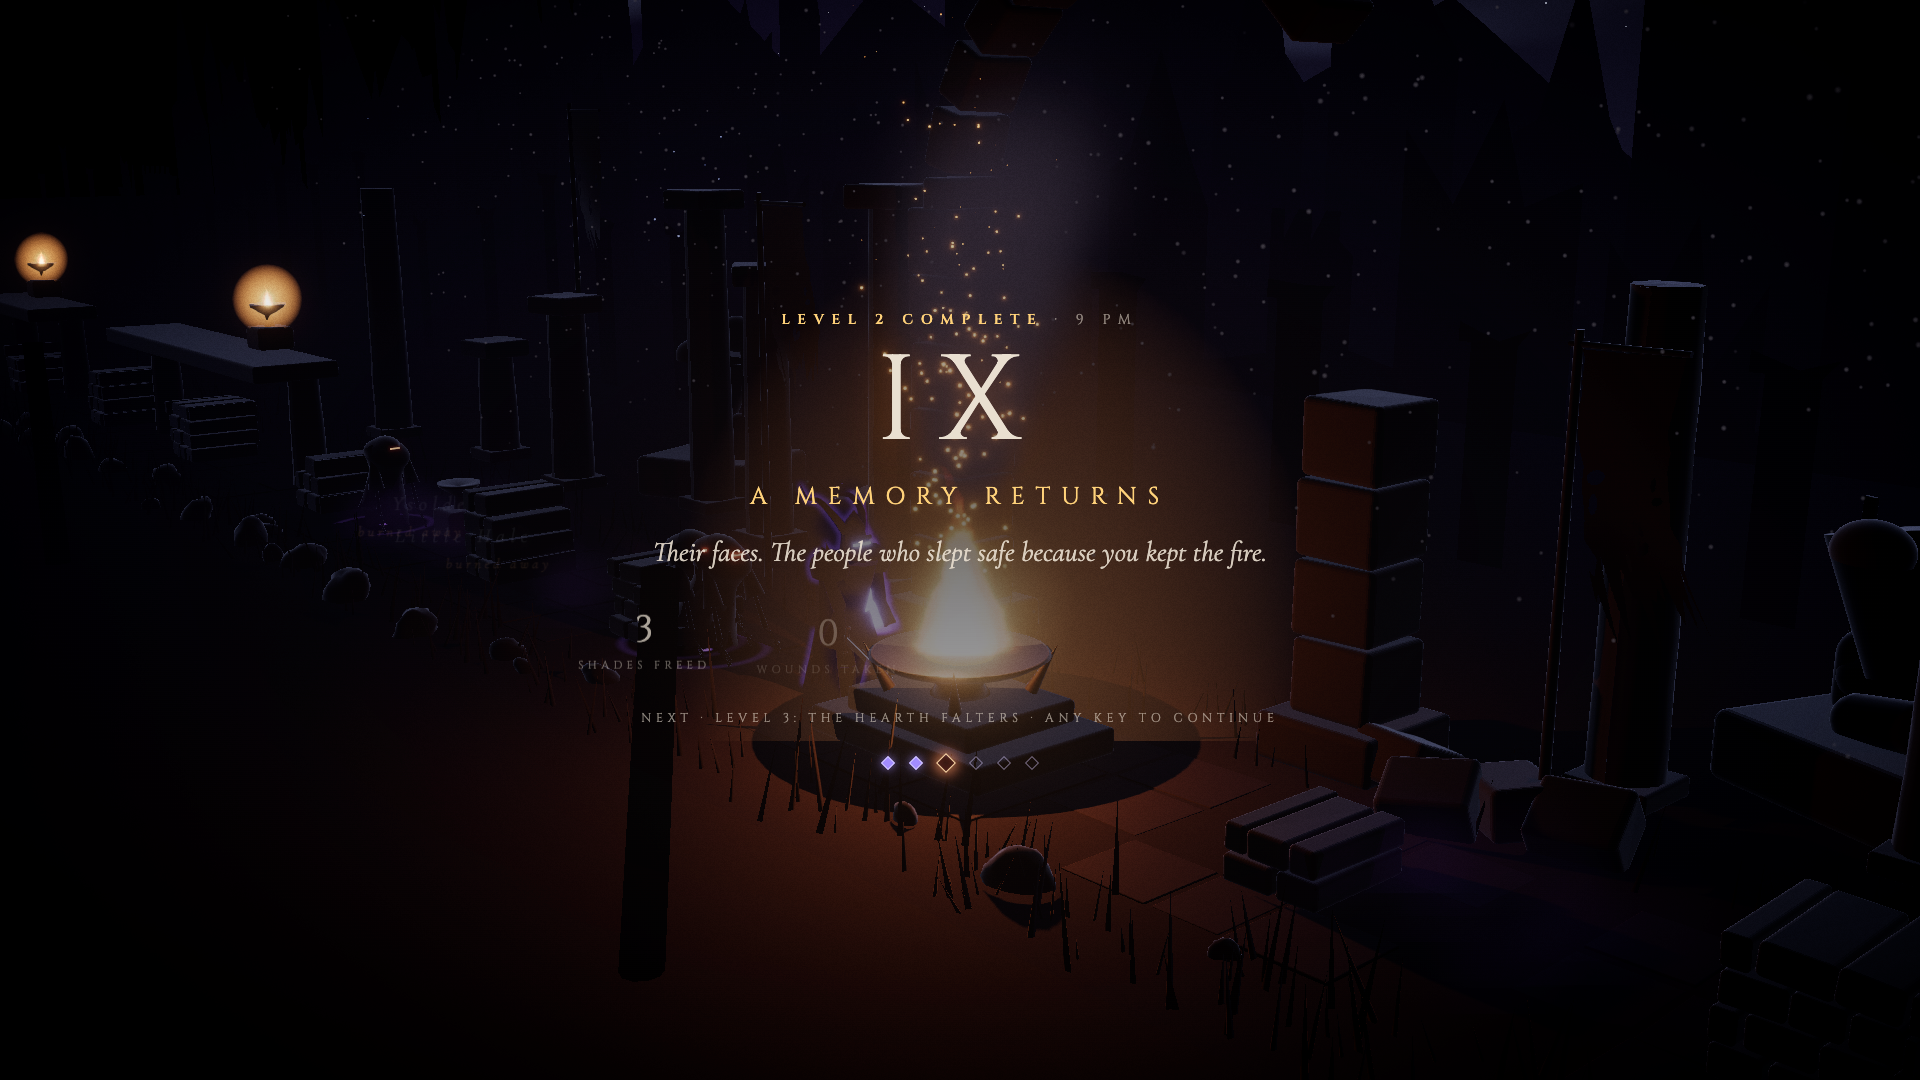
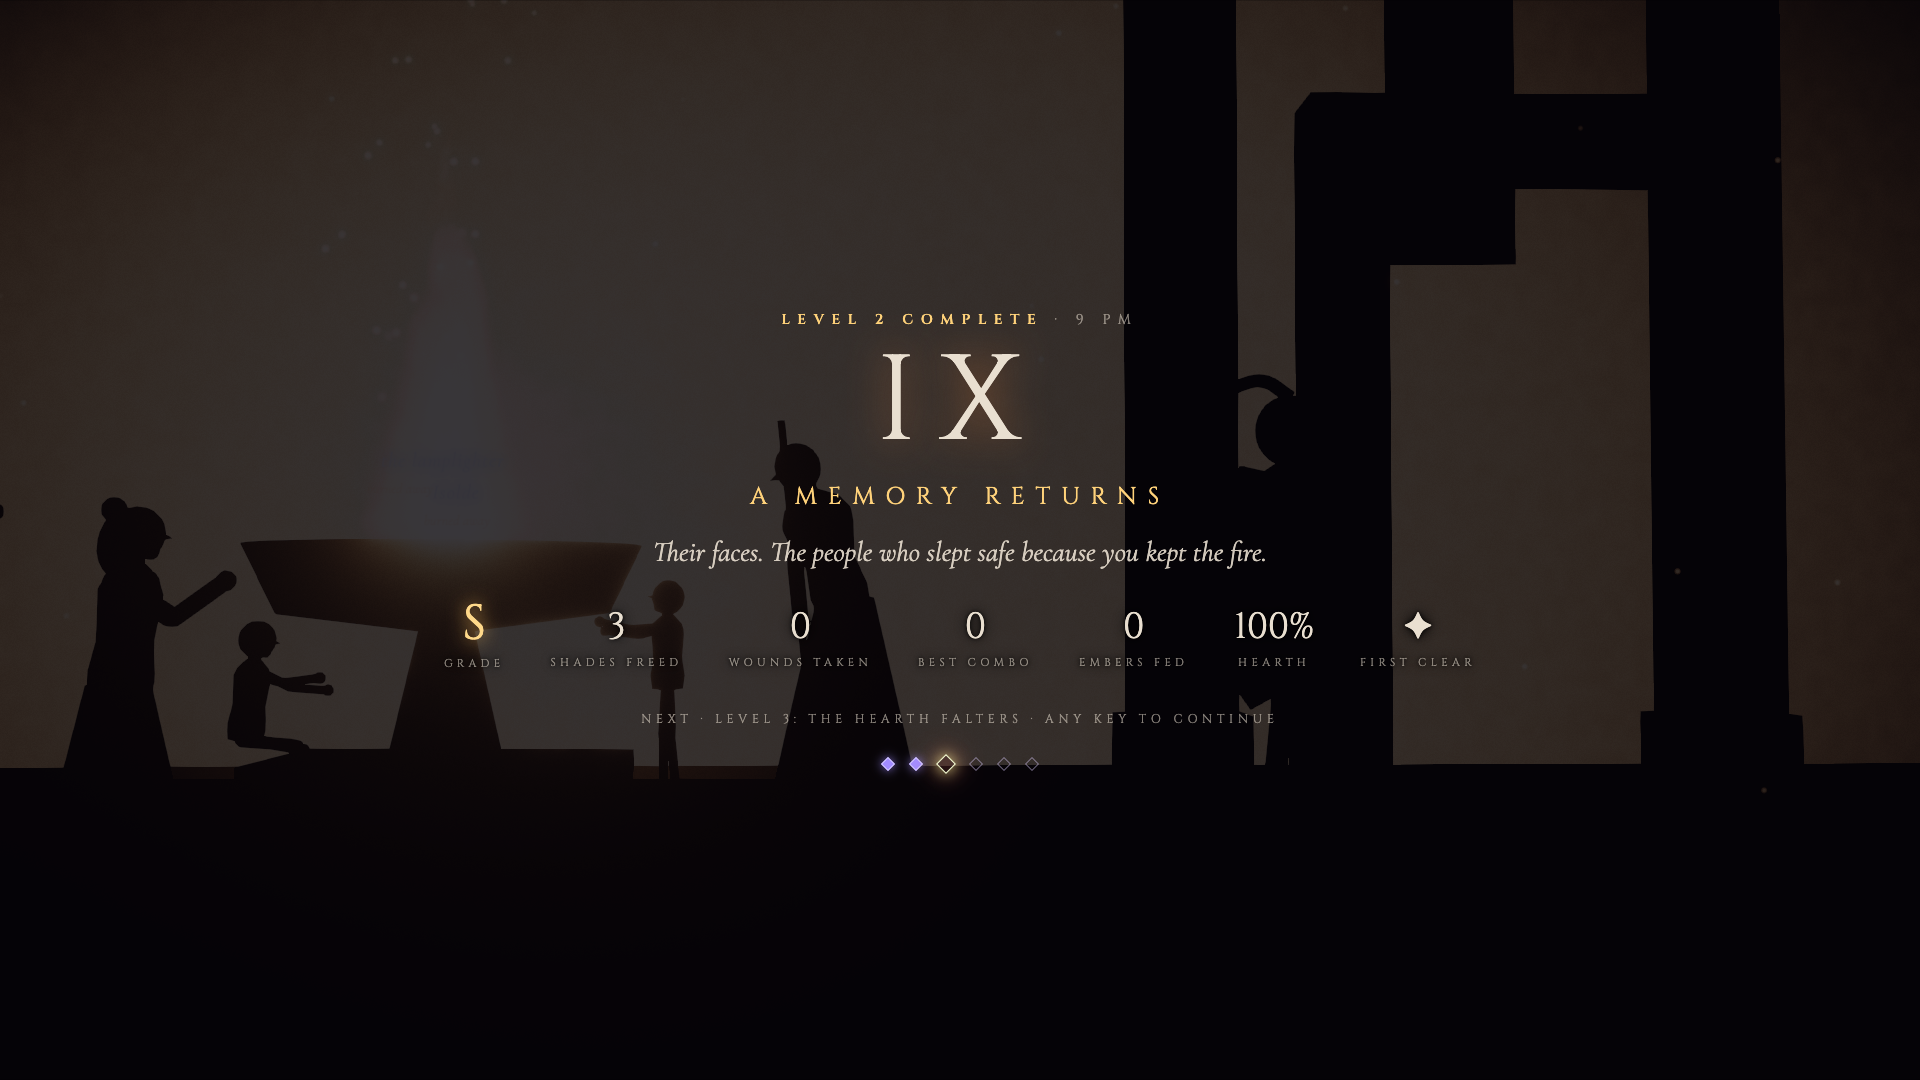
Settings, grades and bests per level; overhead charge pose.
Pause menu settings: V cycles volume (100/75/50/25/0%), H cycles screenshake (full, reduced, off); both saved in localStorage and applied at boot. R restarts the level from pause too.

Each level is graded S/A/B/C on wounds taken (and, on the hearth grounds, the fire left); the best per level is saved and shown on the level's intro card, and the level-complete card shows the grade and "new best" / "first clear". The card dims the memory behind it so the stats read.

The charge pose now raises the blade over his head and draws it back as it fills; the rend comes down from there.

diff --git a/src/main.ts b/src/main.ts
@@ -1,6 +1,7 @@
 import './style.css';
 import * as THREE from 'three';
-import { initAudio, isMuted, setBeds, setMood, setMuted, sfx } from './audio/sfx';
+import { initAudio, isMuted, setBeds, setMood, setMuted, setVolume, sfx } from './audio/sfx';
+import { bestFor, gradeFor, recordBest, saveSettings, settings } from './settings';
 import { CFG } from './config';
 import { CHAPTERS, DAWN_SKY, MIDNIGHT_SKY } from './data/chapters';
 import { LEVELS } from './data/levels';
@@ -158,12 +159,19 @@ function levelComplete(): void {
     [world.road ? 'time' : 'hearth', world.road ? mmss(world.time) : `${Math.round(Math.max(0, world.hearthHp))}%`],
   ];
   if (!world.road) stats.splice(3, 0, ['embers fed', levelStats.embers]);
+  const grade = gradeFor(levelStats.wounds, world.road ? null : Math.max(0, world.hearthHp));
+  const prev = bestFor(c.id);
+  const isBest = recordBest(c.id, { grade, wounds: levelStats.wounds, time: world.time });
+  stats.unshift(['grade', `<em class="grade g${grade}">${grade}</em>`]);
+  stats.push([isBest ? (prev ? 'new best' : 'first clear') : 'best', isBest ? '✦' : prev!.grade]);
   const hint = next ? `Next  ·  Level ${i + 2}: ${next.title}${DEMO ? '' : '   ·   any key to continue'}` : '';
+  document.getElementById('card')!.classList.toggle('dim', memories.active >= 0);
   hud.card(c.roman, 'A memory returns', c.memory, hint, { eyebrow: `<b>Level ${i + 1} complete</b>  ·  ${c.clock}`, stats, level: i + 1, levels: CHAPTERS.length });
 }
 
 function startChapter(i: number, quick = false, opts: WorldOpts = {}): void {
   chapterIndex = i;
+  document.getElementById('card')!.classList.remove('dim');
   levelStats.wounds = 0;
   levelStats.embers = 0;
   hud.bestCombo = 0;
@@ -179,7 +187,8 @@ function startChapter(i: number, quick = false, opts: WorldOpts = {}): void {
   stage.dawn = 0;
   rig.fitSpan = true;
   const c = world.chapter;
-  hud.card(c.roman, c.title, c.line, '', { eyebrow: levelTitle(i), level: i, levels: CHAPTERS.length });
+  const best = bestFor(c.id);
+  hud.card(c.roman, c.title, c.line, best ? `best grade  ${best.grade}` : '', { eyebrow: levelTitle(i), level: i, levels: CHAPTERS.length });
   hud.show(false);
   hud.choice(false);
   knight.pose = 'kneel';
@@ -280,6 +289,7 @@ function journeyEvents(): void {
 }
 
 // ------------------------------------------------------------------ input
+applySettings();
 initInput(stage.renderer.domElement);
 onKey((code) => {
   initAudio();
@@ -315,6 +325,14 @@ onKey((code) => {
       if (code === 'Escape' || code === 'KeyP') {
         hud.hideCard();
         setMode(pausedFrom);
+      } else if (code === 'KeyR') startChapter(chapterIndex, true);
+      else if (code === 'KeyV' || code === 'KeyH') {
+        if (code === 'KeyV') settings.volume = settings.volume <= 0.01 ? 1 : Math.round((settings.volume - 0.25) * 100) / 100;
+        else settings.shake = settings.shake === 1 ? 0.5 : settings.shake === 0.5 ? 0 : 1;
+        applySettings();
+        saveSettings();
+        sfx('ui');
+        pauseCard();
       }
       return;
     case 'play':
@@ -327,9 +345,24 @@ window.addEventListener('blur', () => {
   if (mode === 'play' && !DEMO) pause();
 });
 
+const SHAKE_NAMES: Record<number, string> = { 1: 'full', 0.5: 'reduced', 0: 'off' };
+function pauseCard(): void {
+  hud.card('', 'Paused', 'The fire waits for no one, but it will wait for you.', 'Esc to return  ·  R to restart the level  ·  M mute', {
+    eyebrow: levelTitle(chapterIndex),
+    stats: [
+      ['V  ·  volume', `${Math.round(settings.volume * 100)}%`],
+      ['H  ·  screenshake', SHAKE_NAMES[settings.shake] ?? 'full'],
+    ],
+  });
+}
+function applySettings(): void {
+  setVolume(settings.volume);
+  rig.shakeScale = settings.shake;
+}
+
 function pause(): void {
   pausedFrom = mode;
-  hud.card('', 'Paused', 'The fire waits for no one, but it will wait for you.', 'Esc to return  ·  R to restart the hour  ·  M mute');
+  pauseCard();
   setMode('paused');
 }
 

diff --git a/src/settings.ts b/src/settings.ts
@@ -1,0 +1,67 @@
+// Player settings and per-level bests, kept in localStorage (it can be missing or throw: then nothing persists).
+
+export interface Settings {
+  volume: number; // 0..1
+  shake: number; // 1 full, 0.5 reduced, 0 off
+}
+export interface Best {
+  grade: string; // S A B C
+  wounds: number;
+  time: number;
+}
+
+const KEY = 'last-ember.v1';
+interface Saved {
+  settings: Settings;
+  best: Record<string, Best>;
+}
+
+function load(): Saved {
+  try {
+    const raw = localStorage.getItem(KEY);
+    if (raw) {
+      const s = JSON.parse(raw) as Partial<Saved>;
+      return { settings: { volume: 1, shake: 1, ...s.settings }, best: s.best ?? {} };
+    }
+  } catch {
+    // private window or blocked storage: play without saving
+  }
+  return { settings: { volume: 1, shake: 1 }, best: {} };
+}
+
+const saved = load();
+function save(): void {
+  try {
+    localStorage.setItem(KEY, JSON.stringify(saved));
+  } catch {
+    // ignore
+  }
+}
+
+export const settings: Settings = saved.settings;
+export function saveSettings(): void {
+  save();
+}
+
+const ORDER = ['S', 'A', 'B', 'C'];
+/** Grade a finished level: wounds taken (out of 100 per shard) and, on the hearth grounds, how much fire was left. */
+export function gradeFor(wounds: number, hearthPct: number | null): string {
+  let g = wounds === 0 ? 0 : wounds <= 60 ? 1 : wounds <= 150 ? 2 : 3;
+  if (hearthPct !== null) g = Math.max(g, hearthPct >= 75 ? 0 : hearthPct >= 45 ? 1 : hearthPct >= 20 ? 2 : 3);
+  return ORDER[g];
+}
+
+export function bestFor(level: string): Best | undefined {
+  return saved.best[level];
+}
+
+/** Record a result; returns true when it beats the stored best. */
+export function recordBest(level: string, r: Best): boolean {
+  const old = saved.best[level];
+  const better = !old || ORDER.indexOf(r.grade) < ORDER.indexOf(old.grade) || (r.grade === old.grade && r.wounds < old.wounds);
+  if (better) {
+    saved.best[level] = r;
+    save();
+  }
+  return better;
+}

diff --git a/src/style.css b/src/style.css
@@ -42,6 +42,7 @@ html, body { margin: 0; height: 100%; background: var(--ink); overflow: hidden; 
 #card, #title { position: fixed; inset: 0; display: flex; flex-direction: column; align-items: center; justify-content: center;
   text-align: center; pointer-events: none; transition: opacity 1.1s ease; padding: 0 16px; }
 #card.hidden, #title.hidden { opacity: 0; }
+#card.dim { background: rgba(6, 4, 9, 0.8); }
 #card { background: radial-gradient(ellipse at center, rgba(7, 6, 10, 0.78), rgba(7, 6, 10, 0.35) 55%, rgba(7, 6, 10, 0) 85%); }
 #card-roman { font-family: var(--display); font-size: clamp(56px, 9vw, 120px); letter-spacing: 0.2em; color: var(--bone);
   text-shadow: 0 0 40px rgba(255, 140, 60, 0.45); line-height: 1; }
@@ -74,6 +75,11 @@ html, body { margin: 0; height: 100%; background: var(--ink); overflow: hidden; 
 #card-stats div { text-shadow: 0 0 14px #000, 0 0 4px #000; }
 #card-stats b { font-family: var(--display); font-size: clamp(24px, 2.6vw, 36px); color: var(--bone); font-weight: 500; }
 #card-stats span { font-family: var(--display); font-size: 11px; letter-spacing: 0.4em; text-transform: uppercase; color: var(--mist); margin-top: 4px; }
+.grade { font-style: normal; font-size: 1.35em; line-height: 0.9; }
+.grade.gS { color: #ffd98a; text-shadow: 0 0 18px rgba(255, 190, 90, 0.95); }
+.grade.gA { color: #d9ccff; text-shadow: 0 0 14px rgba(160, 130, 255, 0.9); }
+.grade.gB { color: #bfe0c8; }
+.grade.gC { color: #c9b6a8; }
 @keyframes stat-in { from { opacity: 0; transform: translateY(10px); } to { opacity: 1; transform: none; } }
 #card-levels { display: flex; gap: 18px; margin-top: 30px; align-items: center; }
 #card-levels i { width: 10px; height: 10px; transform: rotate(45deg); border: 1px solid rgba(220, 205, 255, 0.5); }

diff --git a/src/audio/sfx.ts b/src/audio/sfx.ts
@@ -5,6 +5,7 @@ let sfxBus: GainNode;
 let musicBus: GainNode;
 let noiseBuf: AudioBuffer;
 let muted = false;
+let volume = 1;
 let fireGain: GainNode | null = null;
 let drumGain: GainNode | null = null;
 let reverb: ConvolverNode;
@@ -23,7 +24,7 @@ export function initAudio(): void {
   const AC = window.AudioContext ?? (window as unknown as { webkitAudioContext: typeof AudioContext }).webkitAudioContext;
   ctx = new AC();
   master = ctx.createGain();
-  master.gain.value = muted ? 0 : 0.8;
+  master.gain.value = muted ? 0 : 0.8 * volume;
   const comp = ctx.createDynamicsCompressor();
   comp.threshold.value = -14;
   comp.ratio.value = 4;
@@ -59,7 +60,12 @@ export function initAudio(): void {
 
 export function setMuted(m: boolean): void {
   muted = m;
-  if (ctx) master.gain.setTargetAtTime(m ? 0 : 0.8, ctx.currentTime, 0.05);
+  if (ctx) master.gain.setTargetAtTime(m ? 0 : 0.8 * volume, ctx.currentTime, 0.05);
+}
+/** Master volume 0..1 (mute is separate). */
+export function setVolume(v: number): void {
+  volume = Math.max(0, Math.min(1, v));
+  if (ctx) master.gain.setTargetAtTime(muted ? 0 : 0.8 * volume, ctx.currentTime, 0.05);
 }
 export function isMuted(): boolean {
   return muted;

diff --git a/src/render/knightView.ts b/src/render/knightView.ts
@@ -439,10 +439,10 @@ export class KnightView {
         p.th1 = -0.75;
         p.kn0 = 0.9 + lv * 0.3;
         p.kn1 = 0.5;
-        p.arm = 4.25 + lv * 0.25 + shake;
-        p.elbow = -0.25;
-        p.swordRel = 0.25;
-        p.armTilt = 0.2;
+        p.arm = 3.5 + lv * 0.35 + shake; // raised over his head, drawing further back as it fills
+        p.elbow = -0.12;
+        p.swordRel = 0.1;
+        p.armTilt = 0.1;
         p.offArm = 1.2;
         p.offElbow = 0.6;
         p.head = -0.12;
@@ -588,7 +588,7 @@ export class KnightView {
         return { ...HEAVY, tilt: HEAVY.tilt + j(0.15), a0: HEAVY.a0 + j(0.1) };
       case 'charged':
         // released from high behind: the whole body brings the blade over and down into the ground
-        return { a0: 4.55, a1: -0.25 + j(0.08), tilt: 0.1 + j(0.05), twist: 0.8, lean: 0.75 };
+        return { a0: 3.9, a1: -0.25 + j(0.08), tilt: 0.1 + j(0.05), twist: 0.8, lean: 0.75 };
       case 'plunge':
         return { a0: 4.4, a1: 0.05, tilt: 0.08, twist: 0.3, lean: 0.5 };
       case 'lunge':

diff --git a/src/settings.test.ts b/src/settings.test.ts
@@ -1,0 +1,20 @@
+import { describe, expect, it } from 'vitest';
+import { bestFor, gradeFor, recordBest } from './settings';
+
+describe('grades and bests', () => {
+  it('grades by wounds, and by the fire left on the hearth grounds', () => {
+    expect(gradeFor(0, null)).toBe('S');
+    expect(gradeFor(44, null)).toBe('A');
+    expect(gradeFor(120, null)).toBe('B');
+    expect(gradeFor(300, null)).toBe('C');
+    expect(gradeFor(0, 30)).toBe('B'); // untouched, but the hearth nearly went out
+  });
+
+  it('keeps only the better result', () => {
+    expect(recordBest('t', { grade: 'B', wounds: 100, time: 60 })).toBe(true);
+    expect(recordBest('t', { grade: 'C', wounds: 200, time: 50 })).toBe(false);
+    expect(recordBest('t', { grade: 'B', wounds: 80, time: 70 })).toBe(true);
+    expect(recordBest('t', { grade: 'S', wounds: 0, time: 90 })).toBe(true);
+    expect(bestFor('t')?.grade).toBe('S');
+  });
+});
